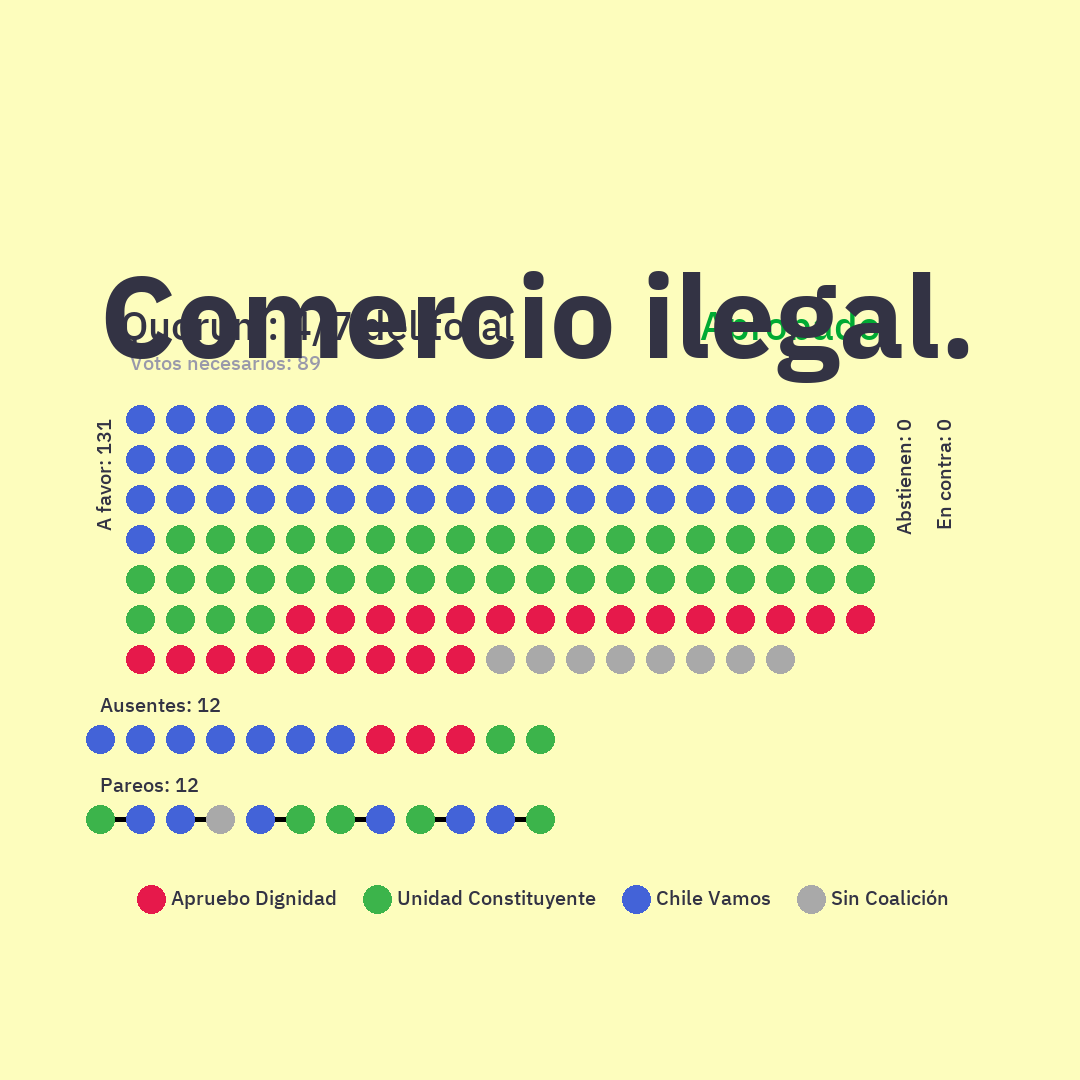
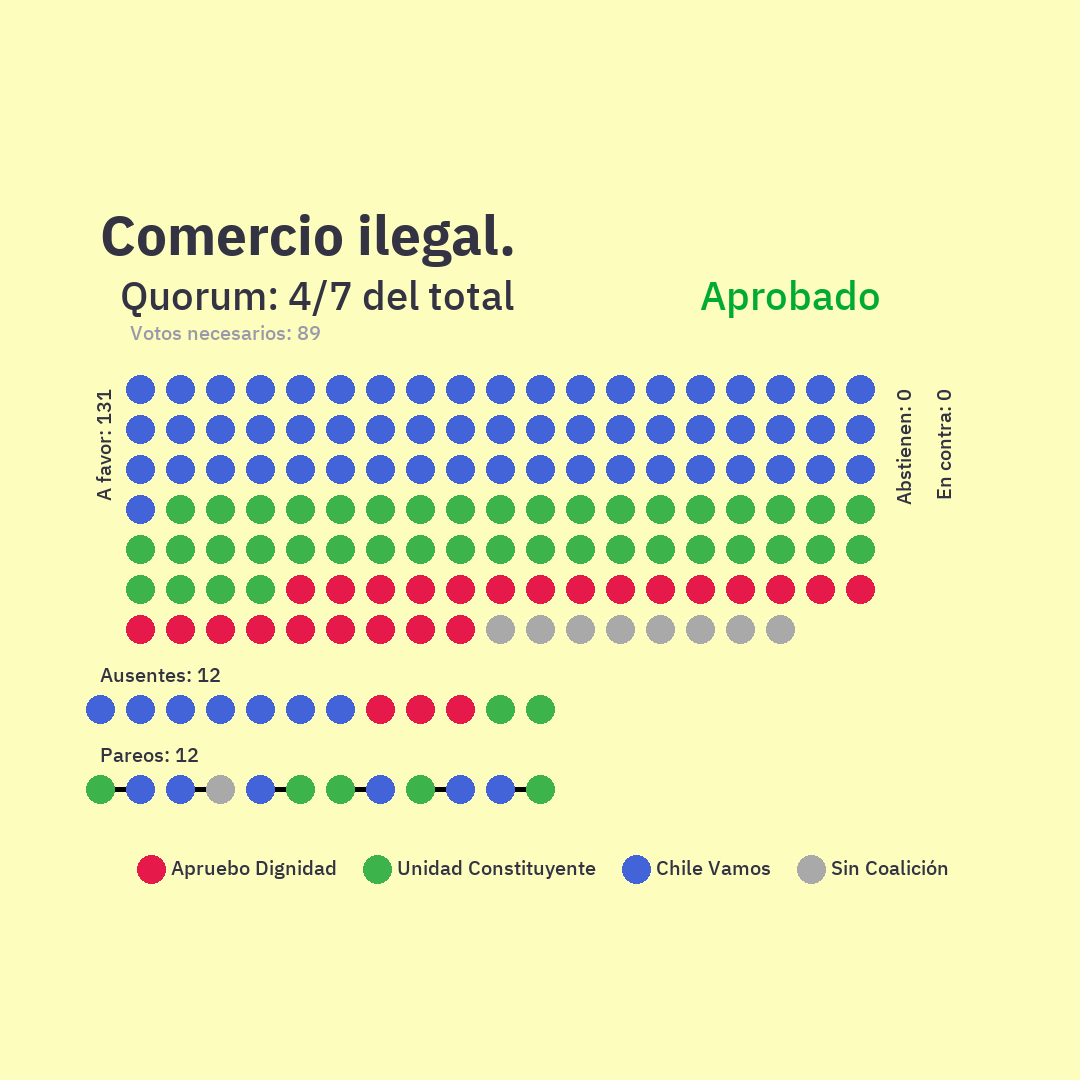
:bug: Soluciona oclusión en títulos muy grandes

Changed region(s): [[0.0611, 0.1833, 0.9167, 0.8556], [0.7333, 0.7944, 0.8861, 0.8556], [0.5806, 0.7944, 0.7028, 0.8556]]

diff --git a/draw/image_utils.py b/draw/image_utils.py
@@ -56,7 +56,7 @@ class ImageDraw(ImageDraw.ImageDraw):
 
     def write_text_box(self, xy, text, box_width, box_height, font_filename,
                        font_size=11, color=(0, 0, 0), place='left',
-                       justify_last_line=False):
+                       justify_last_line=False, max_font_size=55):
         x, y = xy
         if font_size == 'fill' and \
            (box_width is not None and box_height is not None):
@@ -69,6 +69,10 @@ class ImageDraw(ImageDraw.ImageDraw):
                     font_size = new_font_size
         if font_size == -1:
             raise ValueError("Text can't be filled")
+        if font_size > max_font_size:
+            font_size = max_font_size
+            y -= 10
+        print(font_size)
         lines = []
         line = []
         words = text.split()

diff --git a/diputados/main.py b/diputados/main.py
@@ -17,9 +17,9 @@ path_root = '/'.join(path_diputados.split('/')[:-1])
 
 if __name__ == "__main__":
 
-    votids = [36472, 36976, 36975, 36974, 36973]
-    votids += api.get_votaciones_recientes()
-    votids += [36977, 36997]
+    #votids = [36472, 36976, 36975, 36974, 36973]
+    #votids += api.get_votaciones_recientes()
+    votids = [36472, 37017, 37020, 36971]
     if len(sys.argv) > 1:
             votids = [int(sys.argv[1])]
     
